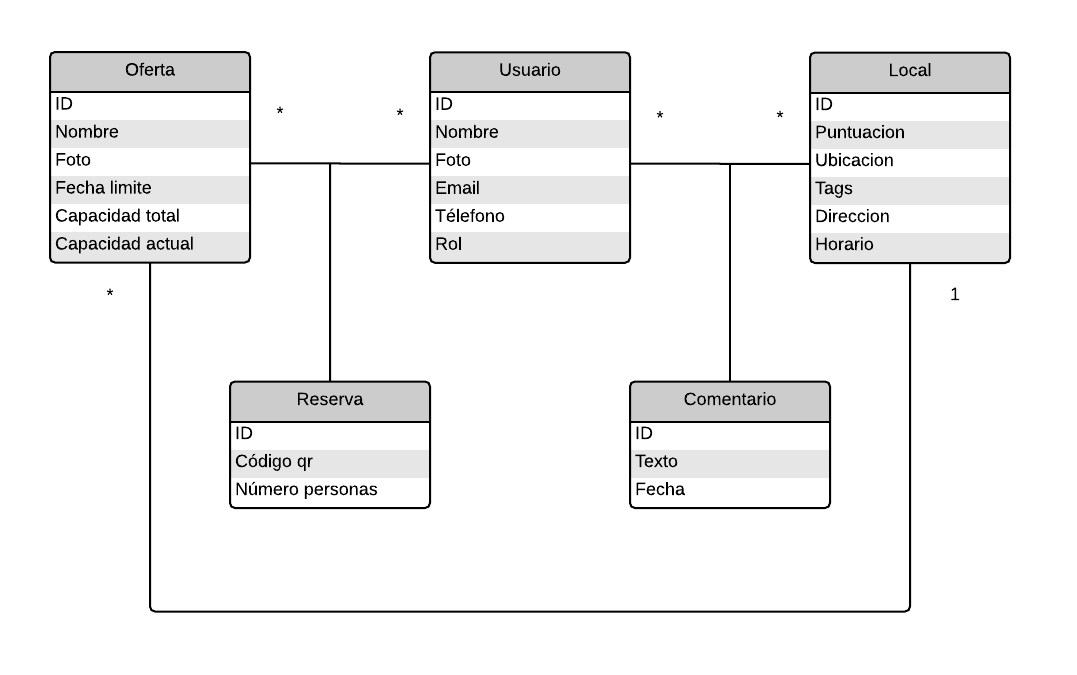
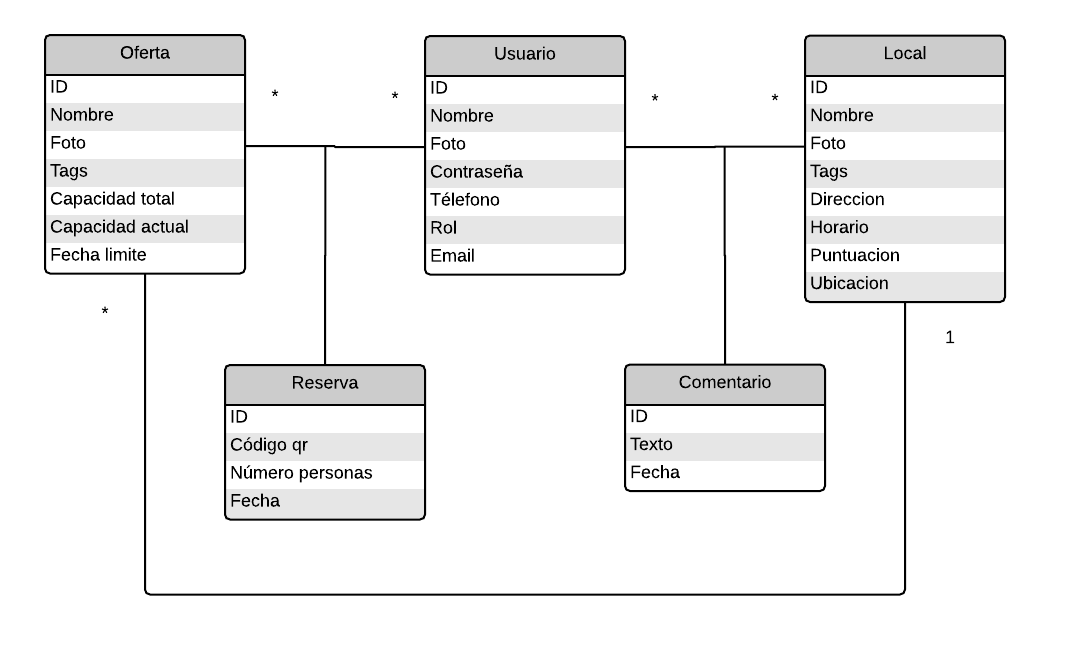
Login: en proceso

diff --git a/iw/src/main/java/es/fdi/iw/controller/HomeController.java b/iw/src/main/java/es/fdi/iw/controller/HomeController.java
@@ -16,6 +16,7 @@ import java.util.Locale;
 import java.util.UUID;
 
 import javax.persistence.EntityManager;
+import javax.persistence.NamedQuery;
 import javax.persistence.NoResultException;
 import javax.persistence.PersistenceContext;
 import javax.servlet.http.HttpServletRequest;
@@ -104,6 +105,39 @@ public class HomeController {
 		// redirects to view from which login was requested
 		return "redirect:" + formSource;
 	}
+
+	@RequestMapping(value = "/loginpro", method = RequestMethod.POST)
+	@Transactional
+	public String loginProvisional(@RequestParam("login") String formLogin, @RequestParam("pass") String formPass, 
+								HttpServletRequest request, HttpServletResponse response, Model model, HttpSession session){
+		
+		logger.info("He entrado");
+		
+		if (formLogin == null || formPass == null) {
+			model.addAttribute("loginError", "No se ha introducido usuario/contraseña");
+			response.setStatus(HttpServletResponse.SC_BAD_REQUEST);
+		}
+		else{
+			Usuario usuAux = null;
+			
+			usuAux = (Usuario) entityManager.createNamedQuery("dameUsuarioLogin").setParameter("nombre", formLogin).getSingleResult();
+			
+			if (usuAux.isPassValid(formPass)) {
+				logger.info("pass was valid");				
+				session.setAttribute("user", usuAux);
+				// sets the anti-csrf token
+				getTokenForSession(session);
+			} else {
+				logger.info("pass was NOT valid");
+				model.addAttribute("loginError", "error en usuario o contraseña");
+				response.setStatus(HttpServletResponse.SC_UNAUTHORIZED);
+			}
+			
+		}
+		
+		return "redirect:mealndrink";
+	}
+	
 	
 	/**
 	 * Delete a user; return JSON indicating success or failure
@@ -385,13 +419,7 @@ public class HomeController {
 		model.addAttribute("active", "usuario");
 
 		return "usuario";
-	}
-	@RequestMapping(value = "/registrarse", method = RequestMethod.GET)
-	public String registrarse(Locale locale, Model model) {
-		model.addAttribute("active", "registrarse");
-
-		return "registrarse";
-	}
+	}	
 	@RequestMapping(value = "/comercio_externo", method = RequestMethod.GET)
 	public String comercio_externo(Locale locale, Model model) {
 		model.addAttribute("active", "comercio_externo");
@@ -408,7 +436,7 @@ public class HomeController {
 	@Transactional
 	public String administracion(Locale locale, Model model) {
 		model.addAttribute("active", "administracion");
-		Usuario admin= new Usuario("Jeff la guarra", "laMasFea.jpg", "hola@oooo.com", "974587482", "admin");
+		Usuario admin= new Usuario("Jeff la guarra", "laMasFea.jpg", "hola@oooo.com", "974587482", "admin", "admin");
 		
 		entityManager.persist(admin);
 		
@@ -476,5 +504,12 @@ public class HomeController {
 			return false;
 		}*/
 		return false;
+	}
+	
+	@Transactional
+	@RequestMapping(value = "/creausuariopruebas", method = RequestMethod.GET)
+	public void crearUsuarioPruebas(){
+		Usuario u = new Usuario("prueba", "ppppp", "email", "telefono", "rol", Usuario.generateHashedAndSalted("1234"));
+		entityManager.persist(u);
 	}
 }

diff --git a/iw/src/main/java/es/fdi/iw/model/Usuario.java b/iw/src/main/java/es/fdi/iw/model/Usuario.java
@@ -6,9 +6,13 @@ import javax.persistence.Entity;
 import javax.persistence.GeneratedValue;
 import javax.persistence.Id;
 import javax.persistence.JoinColumn;
+import javax.persistence.NamedQuery;
 import javax.persistence.OneToMany;
 
+import org.springframework.security.crypto.bcrypt.BCryptPasswordEncoder;
+
 @Entity
+@NamedQuery(name="dameUsuarioLogin", query="SELECT usu FROM Usuario usu WHERE usu.nombre = nombre")
 public class Usuario {
 	
 	private long ID;
@@ -20,15 +24,65 @@ public class Usuario {
 	private Collection<Comentario> comentarios;
 	private Collection<Reserva> reservas;
 	private Collection<Local> locales; // un usuario puede tener muchos locales
+	private static BCryptPasswordEncoder bcryptEncoder = new BCryptPasswordEncoder();
+	private String hashedAndSalted;
 	
-	
-	public Usuario(String nombre, String foto, String email, String telefono, String rol){
+
+	public Usuario() {
+		
+	}
+	public Usuario(String nombre, String foto, String email, String telefono, String rol, String pass){
 		this.nombre=nombre;
 		this.foto=foto;
 		this.email=email;
 		this.telefono=telefono;
 		this.rol=rol;
+		this.hashedAndSalted = generateHashedAndSalted(pass);
 	}
+	
+	public boolean isPassValid(String pass) {
+		return bcryptEncoder.matches(pass, hashedAndSalted);		
+	}
+	
+	/**
+	 * Generate a hashed&salted hex-string from a user's pass and salt
+	 * @param pass to use; no length-limit!
+	 * @param salt to use
+	 * @return a string to store in the BD that does not reveal the password even
+	 * if the DB is compromised. Note that brute-force is possible, but it will
+	 * have to be targeted (ie.: use the same salt)
+	 */
+	public static String generateHashedAndSalted(String pass) {
+		return bcryptEncoder.encode(pass);
+	}	
+	
+	/**
+	 * Converts a byte array to a hex string
+	 * @param b converts a byte array to a hex string; nice for storing
+	 * @return the corresponding hex string
+	 */
+	public static String byteArrayToHexString(byte[] b) {
+		StringBuilder sb = new StringBuilder();
+		for (int i=0; i<b.length; i++) {
+			sb.append(Integer.toString((b[i]&0xff) + 0x100, 16).substring(1));
+		}
+		return sb.toString();
+	}
+	
+	/**
+	 * Converts a hex string to a byte array
+	 * @param hex string to convert
+	 * @return equivalent byte array
+	 */
+	public static byte[] hexStringToByteArray(String hex) {
+		byte[] r = new byte[hex.length()/2];
+		for (int i=0; i<r.length; i++) {
+			String h = hex.substring(i*2, (i+1)*2);
+			r[i] = (byte)Integer.parseInt(h, 16);
+		}
+		return r;
+	}
+	
 	@Id
 	@GeneratedValue
 	public long getID() {
@@ -67,6 +121,12 @@ public class Usuario {
 	}
 	public void setNombre(String nombre) {
 		this.nombre = nombre;
+	}
+	public String getHashedAndSalted() {
+		return hashedAndSalted;
+	}
+	public void setHashedAndSalted(String hashedAndSalted) {
+		this.hashedAndSalted = hashedAndSalted;
 	}
 	@OneToMany(targetEntity=Comentario.class)
 	@JoinColumn(name="usuario")

diff --git a/iw/src/main/java/es/fdi/iw/model/Oferta.java b/iw/src/main/java/es/fdi/iw/model/Oferta.java
@@ -1,6 +1,7 @@
 package es.fdi.iw.model;
 
 import java.sql.Timestamp;
+import java.util.ArrayList;
 import java.util.Collection;
 
 import javax.persistence.Entity;
@@ -22,16 +23,22 @@ public class Oferta {
 	private int capacidadActual;
 	private Collection<Reserva> reservas;
 	private Local comercio; //una oferta es puesta por un Local
+	private ArrayList<String> tags;
 	
-	
-	public Oferta(String nombre, String foto, Timestamp fechaLimite,int capacidadTotal, int capacidadActual, Local comercio){
+	public Oferta() {
+		
+	}
+	public Oferta(String nombre, String foto, Timestamp fechaLimite,int capacidadTotal, 
+			Local comercio, ArrayList<String> tags){
 		this.nombre=nombre;
 		this.foto=foto;
 		this.fechaLimite=fechaLimite;
-		this.capacidadActual=capacidadActual;
-		this.capacidadTotal=capacidadActual;
+		this.capacidadActual=0;
+		this.capacidadTotal=capacidadTotal;
 		this.comercio=comercio;
+		this.tags = tags;
 	}
+	
 	@Id
 	@GeneratedValue
 	public long getID() {
@@ -42,12 +49,18 @@ public class Oferta {
 		ID = iD;
 	}
 	
-	
-	public int getCapacidadACtual() {
+	public ArrayList<String> getTags() {
+		return tags;
+	}
+
+	public void setTags(ArrayList<String> tags) {
+		this.tags = tags;
+	}
+	public int getCapacidadActual() {
 		return capacidadActual;
 	}
-	public void setCapacidadACtual(int capacidadACtual) {
-		this.capacidadActual = capacidadACtual;
+	public void setCapacidadActual(int capacidadActual) {
+		this.capacidadActual = capacidadActual;
 	}
 	public Timestamp getFechaLimite() {
 		return fechaLimite;
@@ -82,10 +95,10 @@ public class Oferta {
 		this.reservas = reservas;
 	}
 	@ManyToOne(targetEntity=Local.class)
-	public Local getComercio() {
+	public Local getLocal() {
 		return comercio;
 	}
-	public void setComercio(Local comercio) {
+	public void setLocal(Local comercio) {
 		this.comercio = comercio;
 	}
 

diff --git a/iw/src/main/java/es/fdi/iw/model/Reserva.java b/iw/src/main/java/es/fdi/iw/model/Reserva.java
@@ -1,5 +1,7 @@
 package es.fdi.iw.model;
 
+import java.sql.Timestamp;
+
 import javax.persistence.Entity;
 import javax.persistence.GeneratedValue;
 import javax.persistence.Id;
@@ -13,13 +15,20 @@ public class Reserva {
 	private Usuario cliente;
 	private Oferta oferta;
 	private int numPersonas;
+	private Timestamp fechaReserva;
 	
-	public Reserva(String codigoQr,Usuario cliente, Oferta oferta, int numeroPersonas){
+	public Reserva(String codigoQr,Usuario cliente, Oferta oferta, int numeroPersonas, Timestamp fechaReserva){
 		this.codigoQr=codigoQr;
-		this.setCliente(cliente);
+		this.setUsuario(cliente);
 		this.setOferta(oferta);
 		this.numPersonas=numeroPersonas;
+		this.fechaReserva=fechaReserva;
 	}
+	
+	public Reserva() {
+		
+	}
+	
 	@Id
 	@GeneratedValue
 	public long getID() {
@@ -29,6 +38,12 @@ public class Reserva {
 	public void setID(long iD) {
 		ID = iD;
 	}
+	public Timestamp getfechaReserva() {
+		return fechaReserva;
+	}
+	public void setfechaReserva(Timestamp fechaReserva) {
+		this.fechaReserva = fechaReserva;
+	}
 	public String getCodigoQr() {
 		return codigoQr;
 	}
@@ -36,10 +51,10 @@ public class Reserva {
 		this.codigoQr = codigoQr;
 	}
 	@ManyToOne(targetEntity=Usuario.class)
-	public Usuario getCliente() {
+	public Usuario getUsuario() {
 		return cliente;
 	}
-	public void setCliente(Usuario cliente) {
+	public void setUsuario(Usuario cliente) {
 		this.cliente = cliente;
 	}
 	@ManyToOne(targetEntity=Oferta.class)

diff --git a/iw/src/main/java/es/fdi/iw/model/Local.java b/iw/src/main/java/es/fdi/iw/model/Local.java
@@ -12,6 +12,7 @@ import javax.persistence.OneToMany;
 
 @Entity
 public class Local {
+	
 	private long ID;
 	private long puntuacion;
 	private String ubicacion;
@@ -21,6 +22,25 @@ public class Local {
 	private Collection<Oferta> ofertas;
 	private Collection<Comentario> comentarios;
 	private Usuario usuario;
+	private String nombre;
+	private String foto;
+	
+	public Local(String nombre, String foto, String ubicacion, ArrayList<String> tags,
+			String direccion, String horario, Usuario usuario) {
+		
+		this.puntuacion = 5;
+		this.ubicacion = ubicacion;
+		this.tags = tags;
+		this.direccion = direccion;
+		this.horario = horario;
+		this.usuario = usuario;
+		this.nombre = nombre;
+		this.foto = foto;
+	}
+	
+	public Local() {
+		
+	}
 	
 	@Id
 	@GeneratedValue
@@ -64,6 +84,22 @@ public class Local {
 		this.puntuacion = puntuacion;
 	}
 
+	public String getNombre() {
+		return nombre;
+	}
+
+	public void setNombre(String nombre) {
+		this.nombre = nombre;
+	}
+	
+	public String getFoto() {
+		return foto;
+	}
+
+	public void setFoto(String foto) {
+		this.foto = foto;
+	}
+	
 	public String getUbicacion() {
 		return ubicacion;
 	}

diff --git a/iw/src/main/java/es/fdi/iw/model/Comentario.java b/iw/src/main/java/es/fdi/iw/model/Comentario.java
@@ -22,6 +22,11 @@ public class Comentario {
 		this.comercio=comercio;
 		this.cliente=cliente;
 	}
+	
+	public Comentario(){
+		
+	}
+	
 	@Id
 	@GeneratedValue
 	public long getID() {
@@ -45,17 +50,17 @@ public class Comentario {
 	}
 	
 	@ManyToOne(targetEntity=Local.class)
-	public Local getComercio() {
+	public Local getLocal() {
 		return comercio;
 	}
-	public void setComercio(Local comercio) {
+	public void setLocal(Local comercio) {
 		this.comercio = comercio;
 	}
 	@ManyToOne(targetEntity=Usuario.class)
-	public Usuario getCliente() {
+	public Usuario getUsuario() {
 		return cliente;
 	}
-	public void setCliente(Usuario cliente) {
+	public void setUsuario(Usuario cliente) {
 		this.cliente = cliente;
 	}
 
